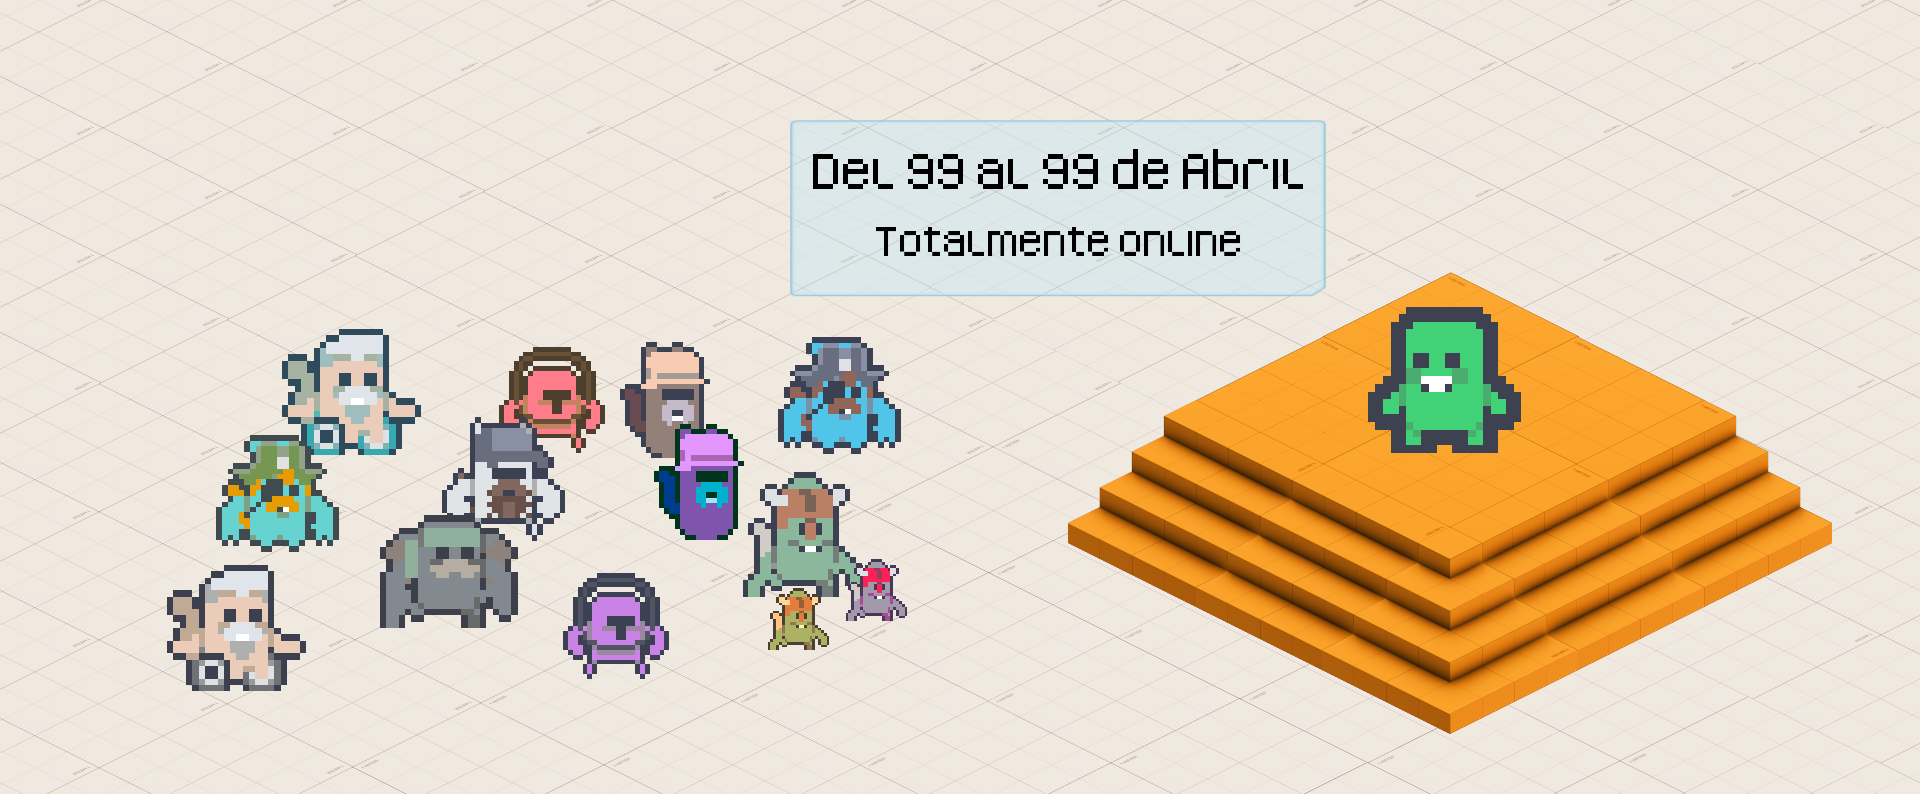
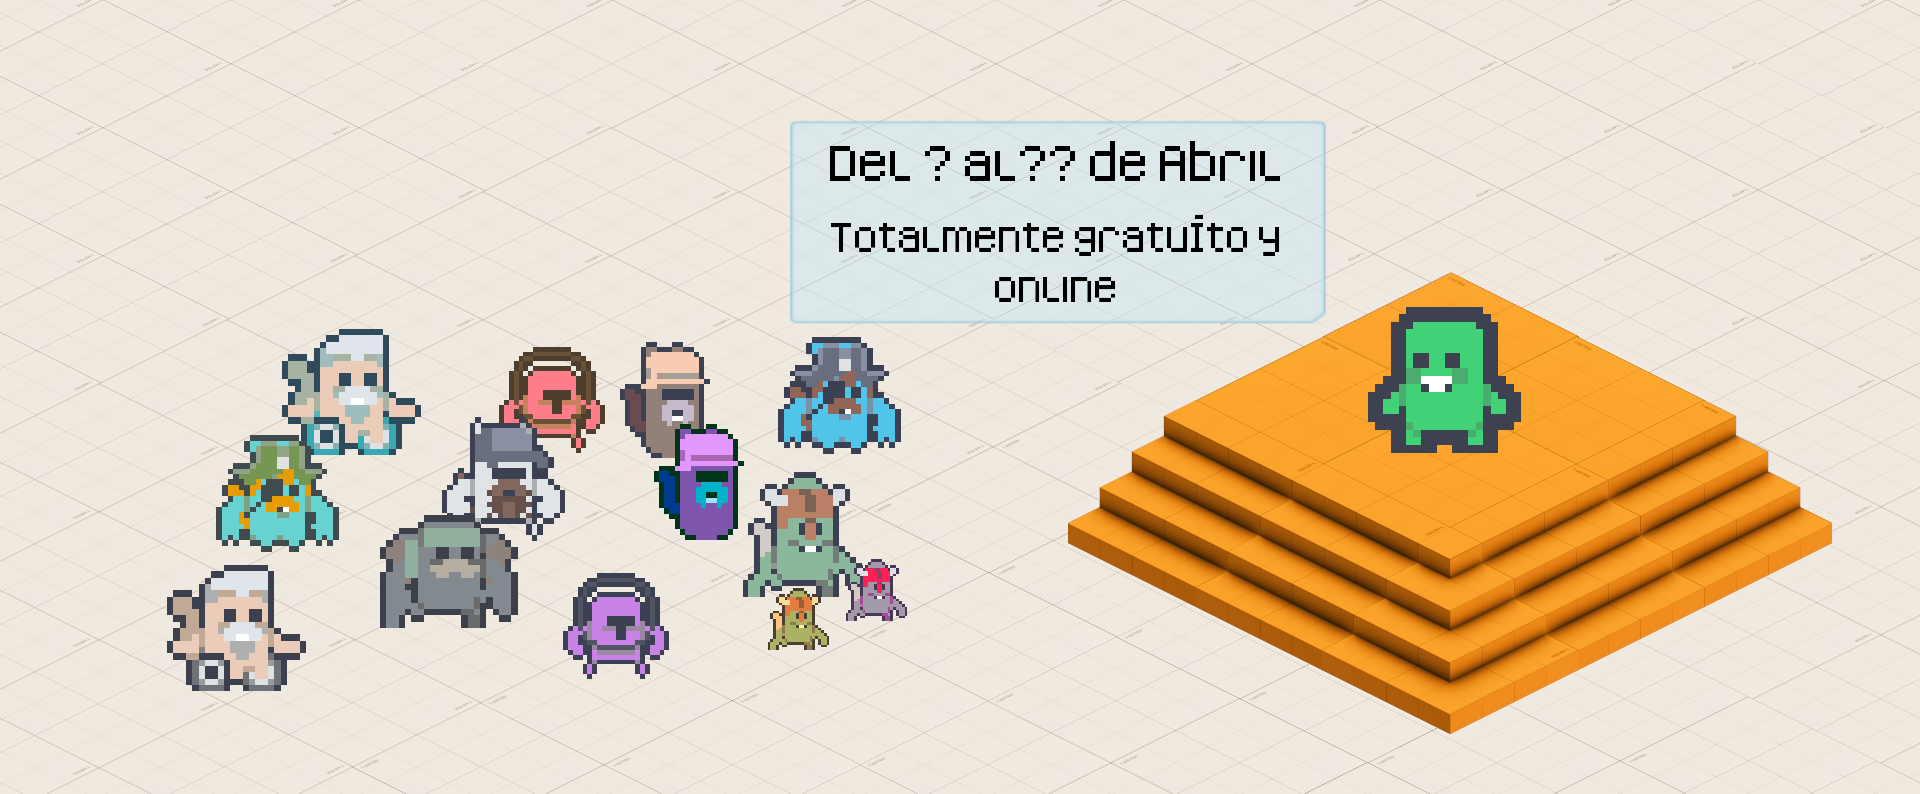
ale, movil acabado (a falta de despliegue) y preparado todo para lanzar

Changed region(s): [[0.4062, 0.272, 0.6875, 0.4232], [0.4062, 0.1814, 0.6875, 0.2418]]

diff --git a/index.html b/index.html
@@ -79,7 +79,8 @@
     <main>
       <!-- Bloque animación -->
       <section id="animation-header">
-          <img class="" src="static/images/banner2.png" alt="Banner publicitario. Que dice: 'Del X al Y de Abril. Totalmente online y gratuito'"/>
+          <img class="d-none d-sm-block" src="static/images/banner2.png" alt="Banner publicitario que dice: 'Del ? al ? de Abril. Totalmente gratuíto y online'"/>
+          <img class="d-block d-sm-none" src="static/images/banner2-mobile.png" alt="Banner publicitario que dice: 'Del ? al ? de Abril. Totalmente gratuíto y online'"/>
       </section>
 
       <section id="que-es" class="">
@@ -115,8 +116,11 @@
         <div class="row justify-content-center m-0 col-12 p-0 align-items-center">
           <div id="" class="col-lg-7 col-sm-12">
             <div class="text-desc border border-dark text-center">
-              A continuación podrás ver los días, horas y charlas que tendremos en esta edición.
+               ¡Próximamente, a finales de marzo, empezaremos a conocer las charlas y ponentes de esta edición!
+              <!-- A continuación podrás ver los días, horas y charlas que tendremos en esta edición. -->
             </div>
+            <div class="text-center mt-3"><img class="col-4" src="static/images/icon/question-mark.svg"></div>
+            <!--
             <div class="text-title text-center p-3 mt-4">
             </div>
             <div class="text-desc border border-dark">
@@ -167,7 +171,7 @@
                             </div>
                         </div>
                         <div class="col-12 col-sm-4 talk-list justify-content-center">
-                            <ul class="nav-charlas nav nav-pills row gy-5 col-10">
+                            <ul class="nav-charlas nav nav-pills row gy-sm-5 gy-3 col-12 col-sm-11">
                                 <li class="nav-item">
                                     <div class="p-0 nav-link active" data-bs-toggle="tab" href="#charla-1-martes">
                                         <div class="nav-titulo ps-3 pe-3">
@@ -232,7 +236,7 @@
                             </div>
                         </div>
                         <div class="col-12 col-sm-4 talk-list justify-content-center">
-                            <ul class="nav-charlas nav nav-pills row gy-5 col-10">
+                            <ul class="nav-charlas nav nav-pills row gy-sm-5 gy-3 col-12 col-sm-11">
                                 <li class="nav-item">
                                     <div class="p-0 nav-link active" data-bs-toggle="tab" href="#charla-1-miercoles">
                                         <div class="nav-titulo ps-3 pe-3">
@@ -297,7 +301,7 @@
                             </div>
                         </div>
                         <div class="col-12 col-sm-4 talk-list justify-content-center">
-                            <ul class="nav-charlas nav nav-pills row gy-5 col-10">
+                            <ul class="nav-charlas nav nav-pills row gy-sm-5 gy-3 col-12 col-sm-11">
                                 <li class="nav-item">
                                     <div class="p-0 nav-link active" data-bs-toggle="tab" href="#charla-1-jueves">
                                         <div class="nav-titulo ps-3 pe-3">
@@ -330,6 +334,7 @@
                     </div>
                 </div>
             </div>
+            -->
           </div>
         </div>
         <small id="kenney">

diff --git a/static/style/styles.css b/static/style/styles.css
@@ -61,10 +61,7 @@ section {
 /* ======  MAIN SECTION START ====== */
 
 #animation-header {
-  /* height: 45vh; /* ordena */
-  /* height: 38.5vh; /* Movil */ 
   margin-top: 10vh !important;
-  background-color: green;
 }
 
 #animation-header img {
@@ -95,7 +92,6 @@ section {
 }
 
 #charlas {
-  background-color: orange;
   background-image: url("../images/background-2-alt.png");
   background-size: cover;
   background-position: top;
@@ -198,6 +194,10 @@ section {
 @media screen and (max-width: 576px) {
     #que-es, #charlas {
         padding: 10% 0;
+    }
+
+    #charlas .tab-content > .active {
+        flex-flow: column-reverse;
     }
 }
 
